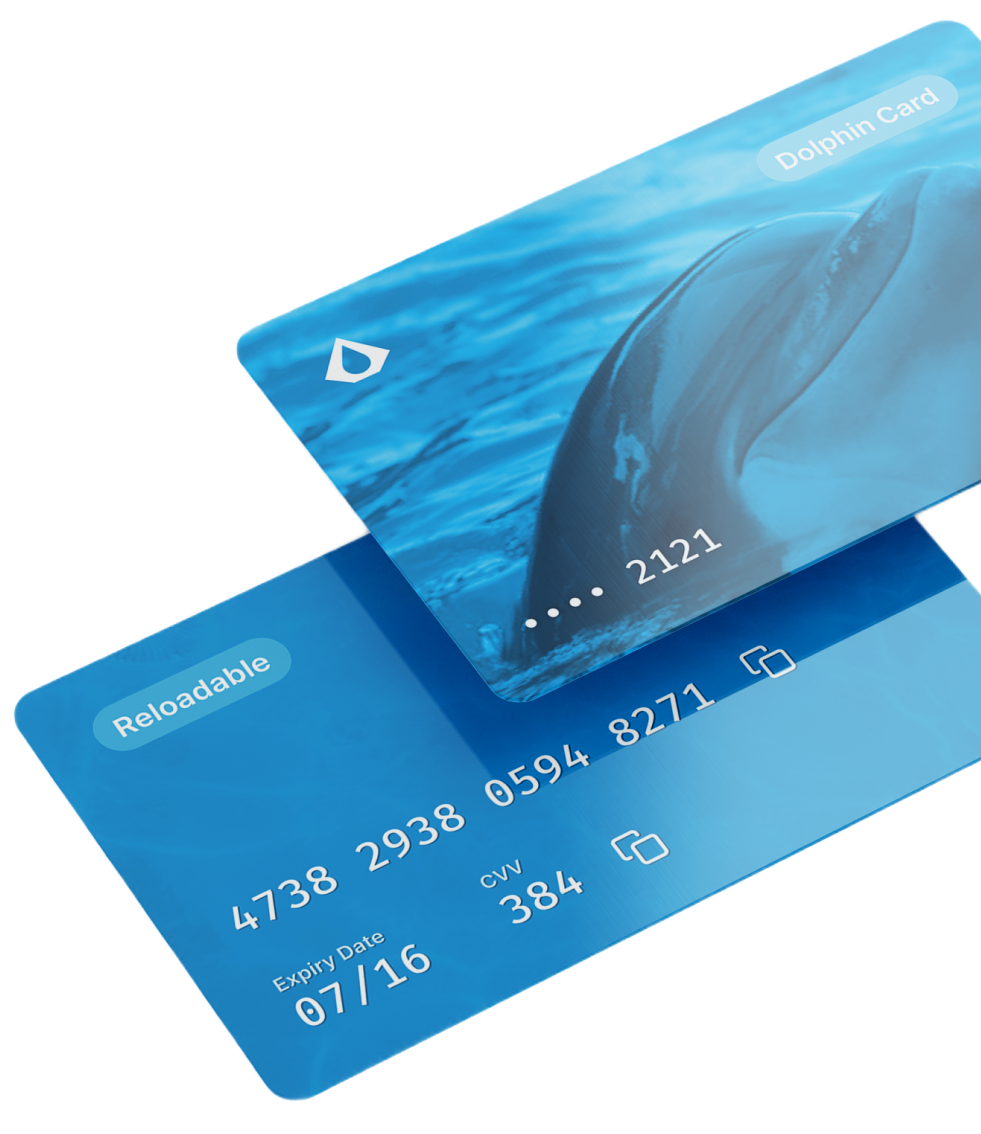
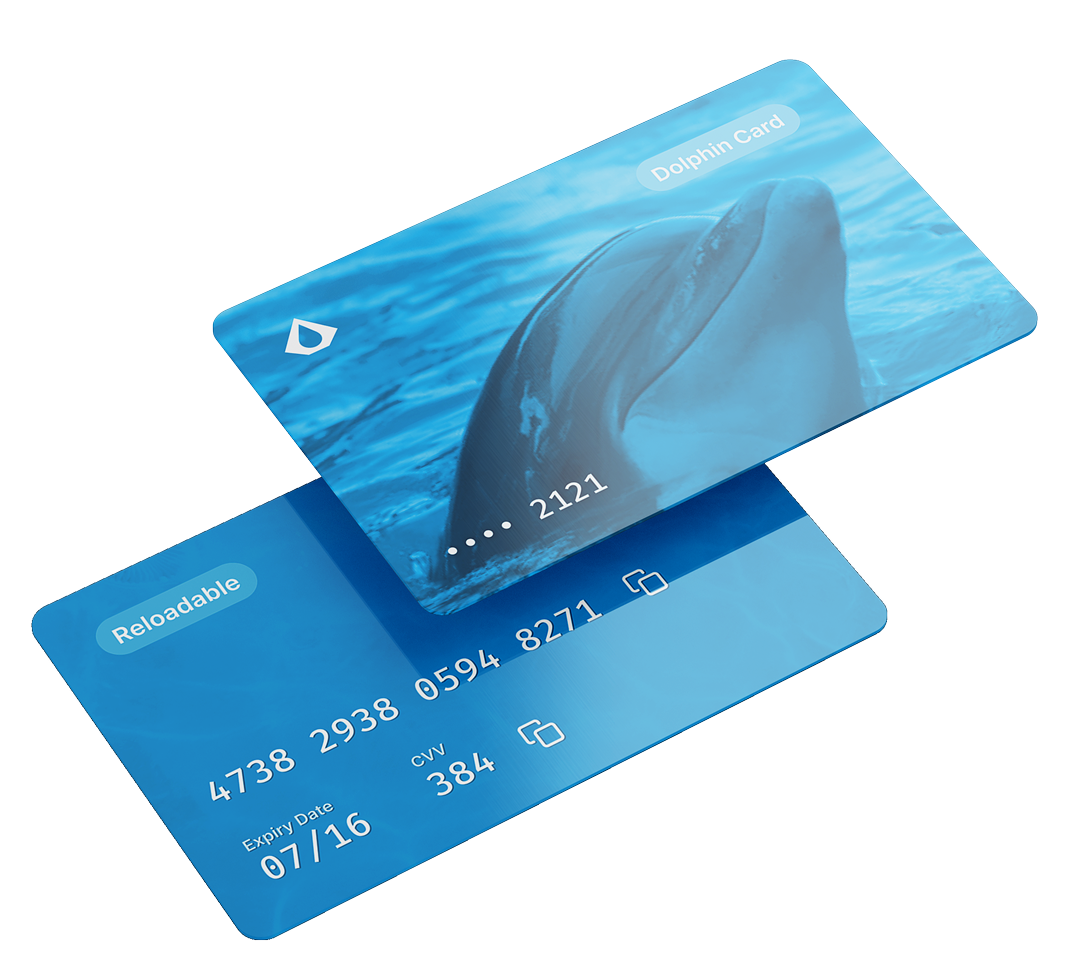
fixes

diff --git a/app/argentina/argentina.module.css b/app/argentina/argentina.module.css
@@ -237,13 +237,12 @@
 @media (max-width: 550px) {
   .heroSection {
     padding: 120px 20px 60px 20px;
-
+    min-height: 850px;
   }
 
   .heroContent {
-  
     gap: 20px;
-    margin-top: 80px;
+    margin-top: 2px;
   
   }
 
@@ -261,6 +260,7 @@
     padding: 14px 28px;
     font-size: 15px;
   }
+
 
 }
 
@@ -298,16 +298,17 @@
   padding: var(--Spacing-Section-M, 160px) 189px;
   flex-direction: column;
   align-items: center;
-  gap: var(--Spacing-M2, 24px);
+  gap: var(--Spacing-M2, 32px);
   align-self: stretch;
   background: var(--Web-Surface-Background, #FFF);
+  overflow: hidden;
 }
 
 .SectionTwoCard{
   display: flex;
   height: 674px;
   padding: var(--Spacing-L2, 48px);
-
+  overflow: hidden;
   align-items: flex-start;
   align-self: stretch;
   border-radius: 16px;
@@ -317,7 +318,7 @@
 
 .sectionTwoCardsContainer{
   display: flex;
-  align-items: flex-start;
+  align-items: stretch;
   align-self: stretch;
   gap: var(--Spacing-M2, 24px);
 }
@@ -333,6 +334,7 @@
   background: var(--Gray-50, #F6F7F8);
   backdrop-filter: blur(7px);
   overflow: hidden;
+  min-height: 0;
 }
 
 .card1TextContainer{
@@ -419,15 +421,6 @@
   box-shadow: inset 0px 4px 100px 0px rgba(0, 0, 0, 0.3);
 }
 
-.physicalCardContainer{
-  width: 409px;
-  height: 502px;
-  aspect-ratio: 559/502;
-  position: absolute;
-  right: -59px;
-  bottom: -41px;
-  overflow: hidden;
-}
 
 .smallCardTextContainer{
  display: flex;
@@ -437,6 +430,7 @@
   align-items: flex-start;
   align-self: stretch;
   gap: var(--Spacing-M1, 16px);
+  margin-top: auto;
 }
 
 
@@ -444,7 +438,7 @@
   color: var(--Web-Text-Primary, #022173);
   /* Web/H5/Bold */
   font-family: Inter;
-  font-size: 22px;
+  font-size: 24px;
   font-style: normal;
   font-weight: 700;
   line-height: 140%; /* 33.6px */
@@ -493,6 +487,29 @@
   left: auto;
 }
 
+/* Physical Card Container - Desktop */
+.physicalCardContainer {
+  position: absolute;
+  width: 500px;
+  height: 502px;
+  aspect-ratio: 559/502;
+  right: -29px;
+  bottom: -22px;
+}
+
+.physicalCardContainer img {
+  width: 100%;
+  height: 100%;
+  object-fit: contain;
+  display: block;
+}
+
+@media screen and (max-width:800px) {
+  .cardImageFrame img{ 
+    right: -35px;
+  }
+}
+
 /* ============================================
    RESPONSIVE STYLES FOR SECTION TWO
    ============================================ */
@@ -515,7 +532,7 @@
 
   .SectionTwoCard {
     flex-direction: column;
-    max-height: 750px;
+    min-height: 600px;
     height: 100%;
     padding: 32px 20px 200px 20px;
     position: relative;
@@ -537,23 +554,18 @@
   }
 
   .physicalCardContainer {
-    position: absolute;
-    width: 65%;
-    max-width: 280px;
+    width: 100%;
+    max-width: 350px;
     height: auto;
-    bottom: -40px;
-    right: -3px;
-    margin: 0;
+    right: 20%;
+    transform: translateX(50%);
+    bottom: 30px;
   }
 
-  .physicalCardContainer img {
-    width: 100%;
-    height: auto;
-  }
 
 
   .sectonTwoCard {
-    min-height: 350px;
+    min-height: 450px;
     padding: 0;
     padding-top: 100px;
     position: relative;
@@ -583,12 +595,10 @@
   .SectionTwoCard {
     padding: 36px 24px 220px 24px;
     max-height: 800px;
+    overflow: hidden;
   }
 
-  .physicalCardContainer {
-    width: 60%;
-    max-width: 320px;
-  }
+
 
   .sectonTwoCard {
     min-height: 380px;
@@ -596,9 +606,9 @@
 }
 
 /* Tablet styles (768px - 1023px) */
-@media (min-width: 768px) and (max-width: 1023px) {
+@media (min-width: 768px) and (max-width: 1030px) {
   .sectionTwo {
-    padding: 80px 40px;
+    padding: 80px 48px;
   }
 
   .SectionTwoCard {
@@ -625,23 +635,17 @@
   }
 
   .physicalCardContainer {
-    position: absolute;
-    width: 60%;
-    max-width: 400px;
+    width: 450px;
     height: auto;
-    right: -30px;
+    right: 20%;
+    transform: translateX(50%);
     bottom: -30px;
-    margin: 0;
-  }
-
-  .physicalCardContainer img {
-    width: 100%;
-    height: auto;
   }
 
   .sectionTwoCardsContainer {
     flex-direction: row;
     gap: 20px;
+    align-items: stretch;
   }
 
   .sectonTwoCard {
@@ -667,8 +671,38 @@
   }
 }
 
-/* Desktop styles (1024px and above) */
-@media (min-width: 1024px) {
+/* Desktop styles (1031px - 1069px) - Prevent card overlap */
+@media (min-width: 1031px) and (max-width: 1069px) {
+  .sectionTwo {
+    padding: 160px 60px;
+  }
+
+  .SectionTwoCard {
+    flex-direction: column;
+    height: auto;
+    min-height: 650px;
+    padding: 40px 40px 220px 40px;
+    position: relative;
+    overflow: hidden;
+  }
+
+  .card1TextContainer {
+    width: 100%;
+    max-width: 600px;
+    z-index: 2;
+  }
+
+  .physicalCardContainer {
+    width: 450px;
+    height: auto;
+    right: 21%;
+    transform: translateX(50%);
+    bottom: -0px;
+  }
+}
+
+/* Desktop styles (1070px and above) */
+@media (min-width: 1070px) {
   .sectionTwo {
     padding: 160px 60px;
   }
@@ -682,11 +716,7 @@
     width: 628px;
   }
 
-  .physicalCardContainer {
-    position: relative;
-    right: -45px;
-    bottom: -162px;
-  }
+
 }
 
 /* Large desktop (1440px and above) */
@@ -865,6 +895,7 @@
   .featureCard {
     flex: 1;
     min-height: 300px;
+    gap:60px
   }
 }
 
@@ -952,3 +983,19 @@
 }
 
 
+
+@media screen and (max-width:550px) {
+  .SectionTwoCard {
+    min-height: 750px;
+    overflow: hidden;
+  }
+
+.physicalCardContainer {
+    width: 100%;
+    max-width: 350px;
+    height: auto;
+    right: 30%;
+    transform: translateX(50%);
+    bottom: 30px;
+  }
+}
